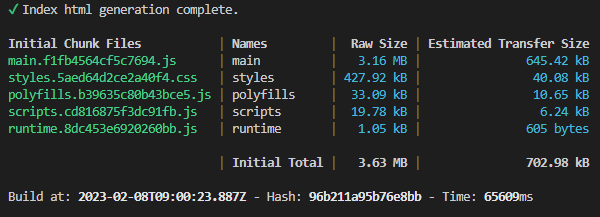
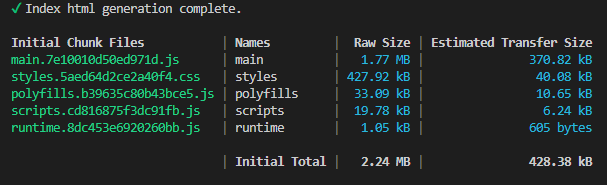
feat(*): finishing the optimizing section

diff --git a/en/components/general/how-to/how-to-customize-theme.md b/en/components/general/how-to/how-to-customize-theme.md
@@ -19,7 +19,7 @@ We will be using the [App Builder](https://www.infragistics.com/products/appbuil
 
 Then we generate our app, using Angular as a target, to a GitHub repository, on top of which we will work both from the App Builder and modifying the generated code itself. After cloning the repository and building the project, we get the running Angular application in its initial state.
 
-<img class="responsive-img"  src="../../../images/general/theming-walkthrough/getting-started-runningapp.png" />
+<img class="responsive-img"  src="../../../images/general/theming-walkthrough/getting-started-running-app.png" />
 
 As you can see, the application has applied default theming, which is [material light variant](../../themes/sass/presets/material.md). The generated `styles.scss` file looks like this:
 
@@ -74,7 +74,7 @@ $custom-palette: palette(
 @include theme($palette: $custom-palette, $schema: $dark-material-schema);
 ```
 
-As you can see, the code generation changed from the specific `@include light-theme($light-material-palette);`, which is the [default theme](../../themes/sass/presets/material.md) and [color palette](../../themes/palettes.md), to a generic [`theme()`](../../themes/sass/global-themes.md) include, which provides as parameters our custom color palette and a [dark material schema](../../themes/sass/schemas.md) for the theming structure. The running Angular app result looks like this now:
+As you can see, the code generation changed from the specific `@include light-theme($light-material-palette);`, which is the [default theme](../../themes/sass/presets/material.md) and [color palette](../../themes/palettes.md), to a generic [`theme()`]({environment:sassApiUrl}/index.html#mixin-theme) include, which provides as parameters our custom color palette and a [dark material schema](../../themes/sass/schemas.md) for the theming structure. The running Angular app result looks like this now:
 
 <img class="responsive-img"  src="../../../images/general/theming-walkthrough/getting-started-dark-app.png" />
 
@@ -106,7 +106,7 @@ $toolbar-theme: grid-toolbar-theme(
 
 And the result in our app now looks like this:
 
-<img class="responsive-img"  src="../../../images/general/theming-walkthrough/customizing-updating-toolbar.png" />
+<img class="responsive-img"  src="../../../images/general/theming-walkthrough/customizing-updated-toolbar.png" />
 
 The same process can be applied to override and customize any of the component themes individually.
 
@@ -121,9 +121,9 @@ Ignite UI theming abstracts multiple dimensions of theming and provides for very
  * [Display density](../../display-density.md) (the density of information that is fitted on the screen)
 
 >[!NOTE]
-> If you really want a fully custom visual design, you will need to modify all of the supported theming dimensions and you will take full advantage of the SASS APIs. 
+> If you really want a fully custom visual design, you will need to modify all of the supported theming dimensions and you will take full advantage of the SASS APIs.
 > If you just need to change things like the fonts and а few colors, then you can just take a look at the section for palettes and typography. In most cases, all you will need is to change a few CSS variables and you won't need the full SASS APIs.
-> We've made this as granular as possible, so modifications can be applied without unexpected side results on the visual design of your applications. 
+> We've made this as granular as possible, so modifications can be applied without unexpected side results on the visual design of your applications.
 
 ## Theme Optimization
 
@@ -131,16 +131,197 @@ After making some customizations, we're going to build the application we genera
 
 <img class="responsive-img"  src="../../../images/general/theming-walkthrough/optimizing-initial-build.png" />
 
-As you can see, the application theme is slightly over 400kb, which comes down to ~40kb when compressed and transferred over. This is not large, but can it be more optimal? The answer is yes, unless every single component from the Ignite UI for Angular suite is used. Calling `@include theme()` brings in all of the component themes, but we have a mechanism for telling the function what to exclude. 
+As you can see, the application theme is slightly over 400kb, which comes down to ~40kb when compressed and transferred over. This is not large, but can it be more optimal? The answer is yes, unless every single component from the Ignite UI for Angular suite is used. Calling `@include theme()` brings in all of the component themes, but we have a mechanism for telling the function what to exclude. There's an [`$exclude`]({environment:sassApiUrl}/index.html#mixin-theme) parameter to the theming mixin, which takes component names as an array and excludes those from the theme at build time. Since it's not so easy to find and list all of the components available in the package, it's preferable if you can just list all of the components you use. We expose the full component list as a varialble, which you have access to once you
+
+```scss
+@use "@infragistics/igniteui-angular/theming" as *;
+```
+
+The components array is found at `$components` and you can reduce this list with the components you use and exclude all the rest, like in this example:
+
+```scss
+$include: (
+  igx-navbar,
+  igx-ripple,
+  igx-icon,
+  igx-button,
+  igx-input-group,
+  igx-combo,
+  igx-nav-drawer,
+  igx-grid,
+  igx-grid-toolbar
+);
+
+@include theme(
+  $palette: $custom-palette,
+  $schema: $dark-material-schema,
+  /* Removing all included components from the full list and excluding the rest  */
+  $exclude: map-keys(map-remove($components, $include...),)
+);
+```
+
+>[!NOTE]
+> Some component themes depend on other component themes.  
+> Even if you exclude certain themes, they will be retained by the build if you use a component theme, which depends on an excluded theme.
+
+What does our build look like after we've excluded certain themes?
+
+<img class="responsive-img"  src="../../../images/general/theming-walkthrough/optimizing-after-exclude.png" />
+
+As you can see, our styles size is reduced to almost half it's original size. This looks pretty good at the moment, but can we reduce this even further? In fact, we can. Most of the styles size is taken by the largest components in the suite, in this case the `IgxTreeGridComponent` that we have in one of our views. However, we don't use this component in any other view. We can make the view with the `igx-tree-grid` a lazy-loaded route and we can include the theme for the grids only for that route, hence making our top-level css even smaller. How is this done?
+
+We will start by creating a new module and a new routing module in the folder with the employees component in our app.
+
+```typescript
+// employees.module.ts
+import { NgModule } from '@angular/core';
+import { CommonModule } from '@angular/common';
+
+import { EmployeesRoutingModule } from './employees-routing.module';
+import { EmployeesComponent } from './employees.component';
+import { IgxButtonModule, IgxComboModule, IgxTreeGridModule } from '@infragistics/igniteui-angular';
+
+
+@NgModule({
+  declarations: [
+    EmployeesComponent
+  ],
+  imports: [
+    CommonModule,
+    EmployeesRoutingModule,
+    IgxComboModule,
+    IgxTreeGridModule,
+    IgxButtonModule
+  ]
+})
+export class EmployeesModule { }
+```
+
+```typescript
+// employees-routing.module.ts
+import { NgModule } from '@angular/core';
+import { RouterModule, Routes } from '@angular/router';
+import { EmployeesComponent } from './employees.component';
+
+const routes: Routes = [{ path: '', component: EmployeesComponent }];
+
+@NgModule({
+  imports: [RouterModule.forChild(routes)],
+  exports: [RouterModule]
+})
+export class EmployeesRoutingModule { }
+```
+
+```typescript
+// Updated top-level app-routing.module.ts
+import { NgModule } from '@angular/core';
+import { Routes, RouterModule } from '@angular/router';
+
+import { PageNotFoundComponent } from './error-routing/not-found/not-found.component';
+import { UncaughtErrorComponent } from './error-routing/error/uncaught-error.component';
+import { ErrorRoutingModule } from './error-routing/error-routing.module';
+import { StatisticsComponent } from './statistics/statistics.component';
+
+export const routes: Routes = [
+  { path: '', redirectTo: 'statistics', pathMatch: 'full' },
+  { path: 'error', component: UncaughtErrorComponent },
+  // { path: 'employees', component: EmployeesComponent, data: { text: 'Employees' } },
+  // lazy-loading the employees route
+  { path: 'employees', loadChildren: () => import('./employees/employees.module').then(m => m.EmployeesModule) },
+  { path: 'statistics', component: StatisticsComponent, data: { text: 'Statistics' } },
+  { path: '**', component: PageNotFoundComponent } // must always be last
+];
+
+@NgModule({
+  imports: [RouterModule.forRoot(routes), ErrorRoutingModule],
+  exports: [RouterModule, ErrorRoutingModule]
+})
+export class AppRoutingModule {
+}
+```
+
+Now we remove the `IgxTreeGridModule` and `IgxComboModule` imports, as well as the `EmployeesComponent` from our `app.module.ts` because we don't use the imports in any other views and we can have only one component declaration in all modules.  
+
+Then we will proceed by removing the `igx-grid`, `igx-grid-toolbar` and `igx-combo` from our theme includes, and we will include them on the `employees.component.scss` level.
+
+```scss
+/* employees.component.scss */
+@use "@infragistics/igniteui-angular/theming" as *;
+
+:host ::ng-deep {
+  height: 100%;
+  display: flex;
+  justify-content: flex-start;
+  align-items: stretch;
+  align-content: flex-start;
+
+  $primary: #1028c7;
+  @include core();
+
+  @include grid(grid-theme());
+
+  @include combo(combo-theme());
+
+  @include grid-toolbar(grid-toolbar-theme($background-color: $primary, $elevations: 0px 15px 30px 0px rgba(0,0,0,0.4)));
+}
+```
+
+```scss
+/* Updated styles.scss */
+@use "minireset.css/minireset";
+@use "@infragistics/igniteui-angular/theming" as *;
+
+@include core();
+@include typography($font-family: "Poppins");
+
+$primary: #1028c7;
+
+$custom-palette: palette(
+  $primary: $primary,
+  $secondary: #e0d94c,
+  $surface: #000000,
+  $gray: #FFFFFF,
+  $info: color($dark-material-palette, 'info'),
+  $success: color($dark-material-palette, 'success'),
+  $error: color($dark-material-palette, 'error'),
+  $warn: color($dark-material-palette, 'warn')
+);
+
+$include: (
+  igx-navbar,
+  igx-ripple,
+  igx-icon,
+  igx-button,
+  igx-nav-drawer
+);
+
+@include theme(
+  $palette: $custom-palette,
+  $schema: $dark-material-schema,
+  $exclude: map-keys(map-remove($components, $include...),)
+);
+```
+
+>[!NOTE]
+> You probably want to put all your variables, like color palette values in a separate `_variables.scss` file, which you can include from multiple components to reuse the variables.  
+
+The result in terms of build is the following:
+
+<img class="responsive-img"  src="../../../images/general/theming-walkthrough/optimizing-after-module-lazyload.png" />
+
+As you can see, our top-level `styles.css` came down to a little over 70kb, which is a little less than 6kb when compressed. We started at ~428kb, ~40kb compressed and managed to bring this down about 7 times in terms of compressed size. The rest is being delievered only when the view containing the `igx-tree-grid` and `igx-combo` components is being loaded.
+
+>[!NOTE]
+> The size of the `main.js` should have also gone down with the extraction of the `IgxTreeGridModule` and the `IgxComboModule` but at the time of writing this article, with Angular v15 being current, the tree-shaking capability of the Angular framework was not working correctly.
 
 ## Additional Resources
 
 Related topics:
 
-- [Palettes](./palettes.md)
-- [Elevations](./elevations.md)
-- [Typography](./typography.md)
-- [Theming with Sass](./sass/index.md)
+- [Palettes](../../themes/sass/palettes.md)
+- [Elevations](../../themes/sass/elevations.md)
+- [Typography](../../themes/sass/typography.md)
+- [Theming with Sass](../../themes/sass/index.md)
 
 Our community is active and always welcoming to new ideas.
 
